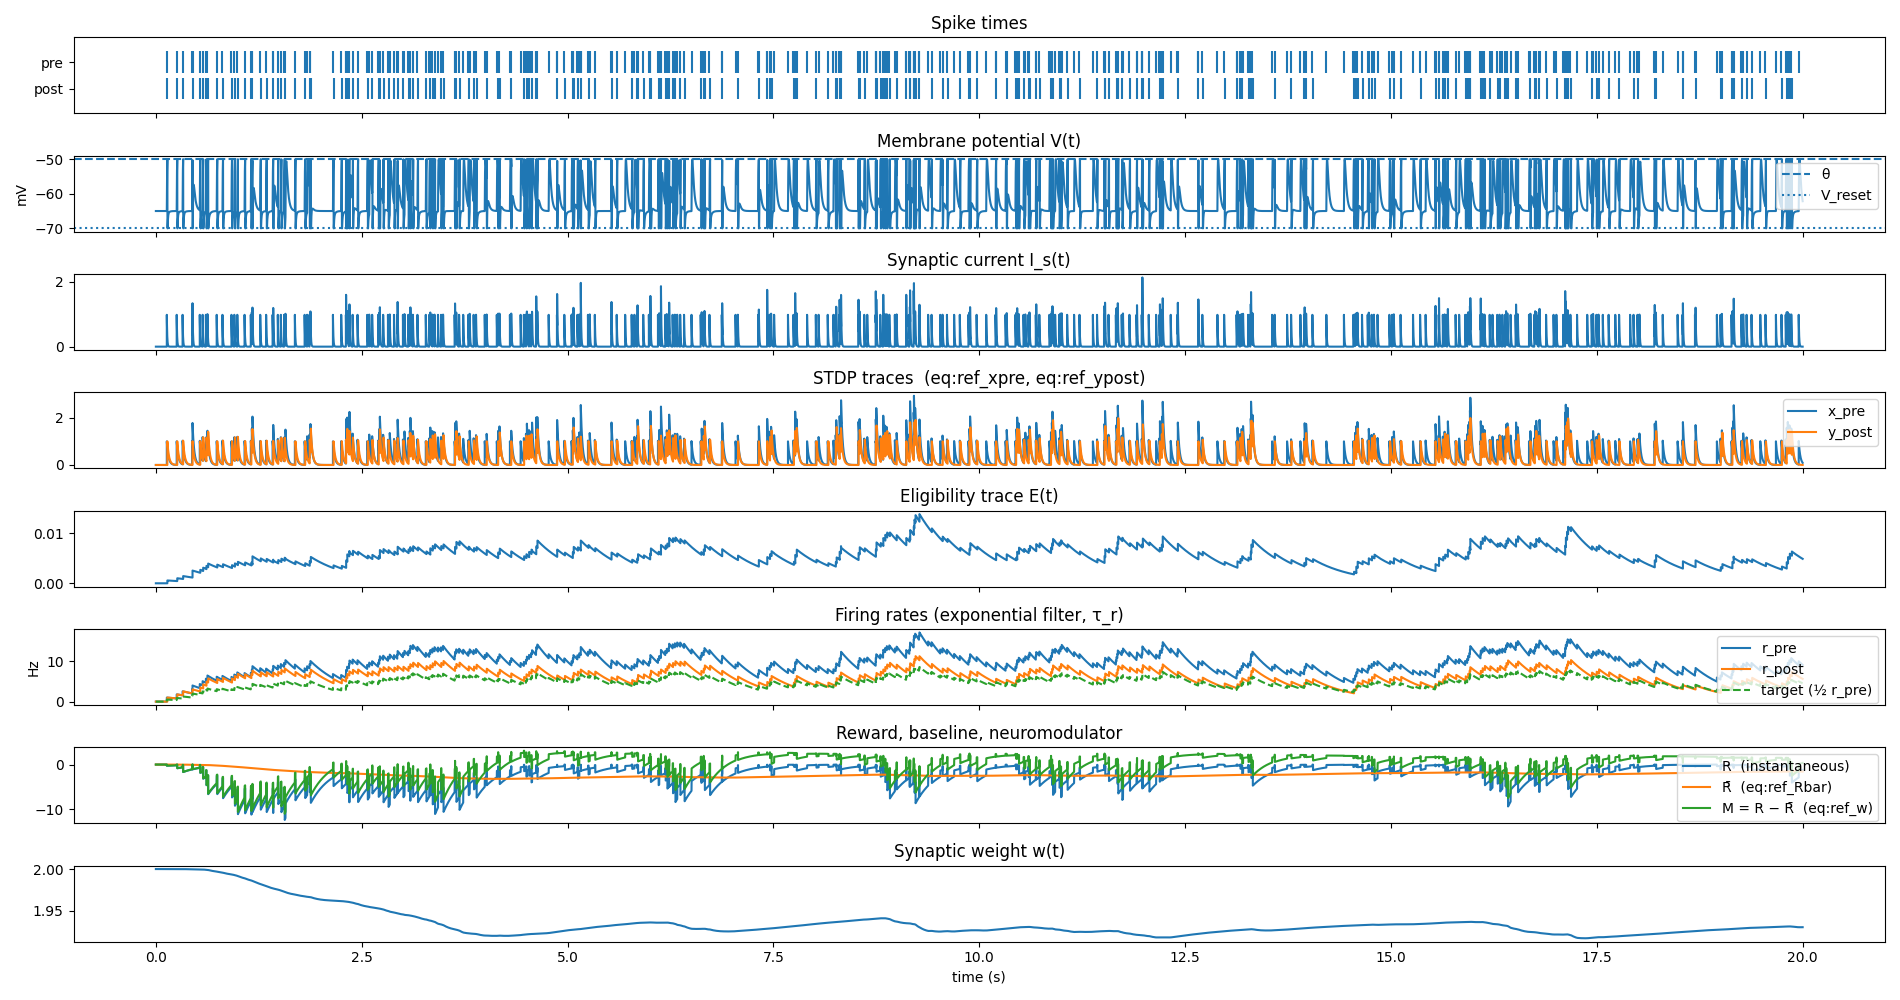
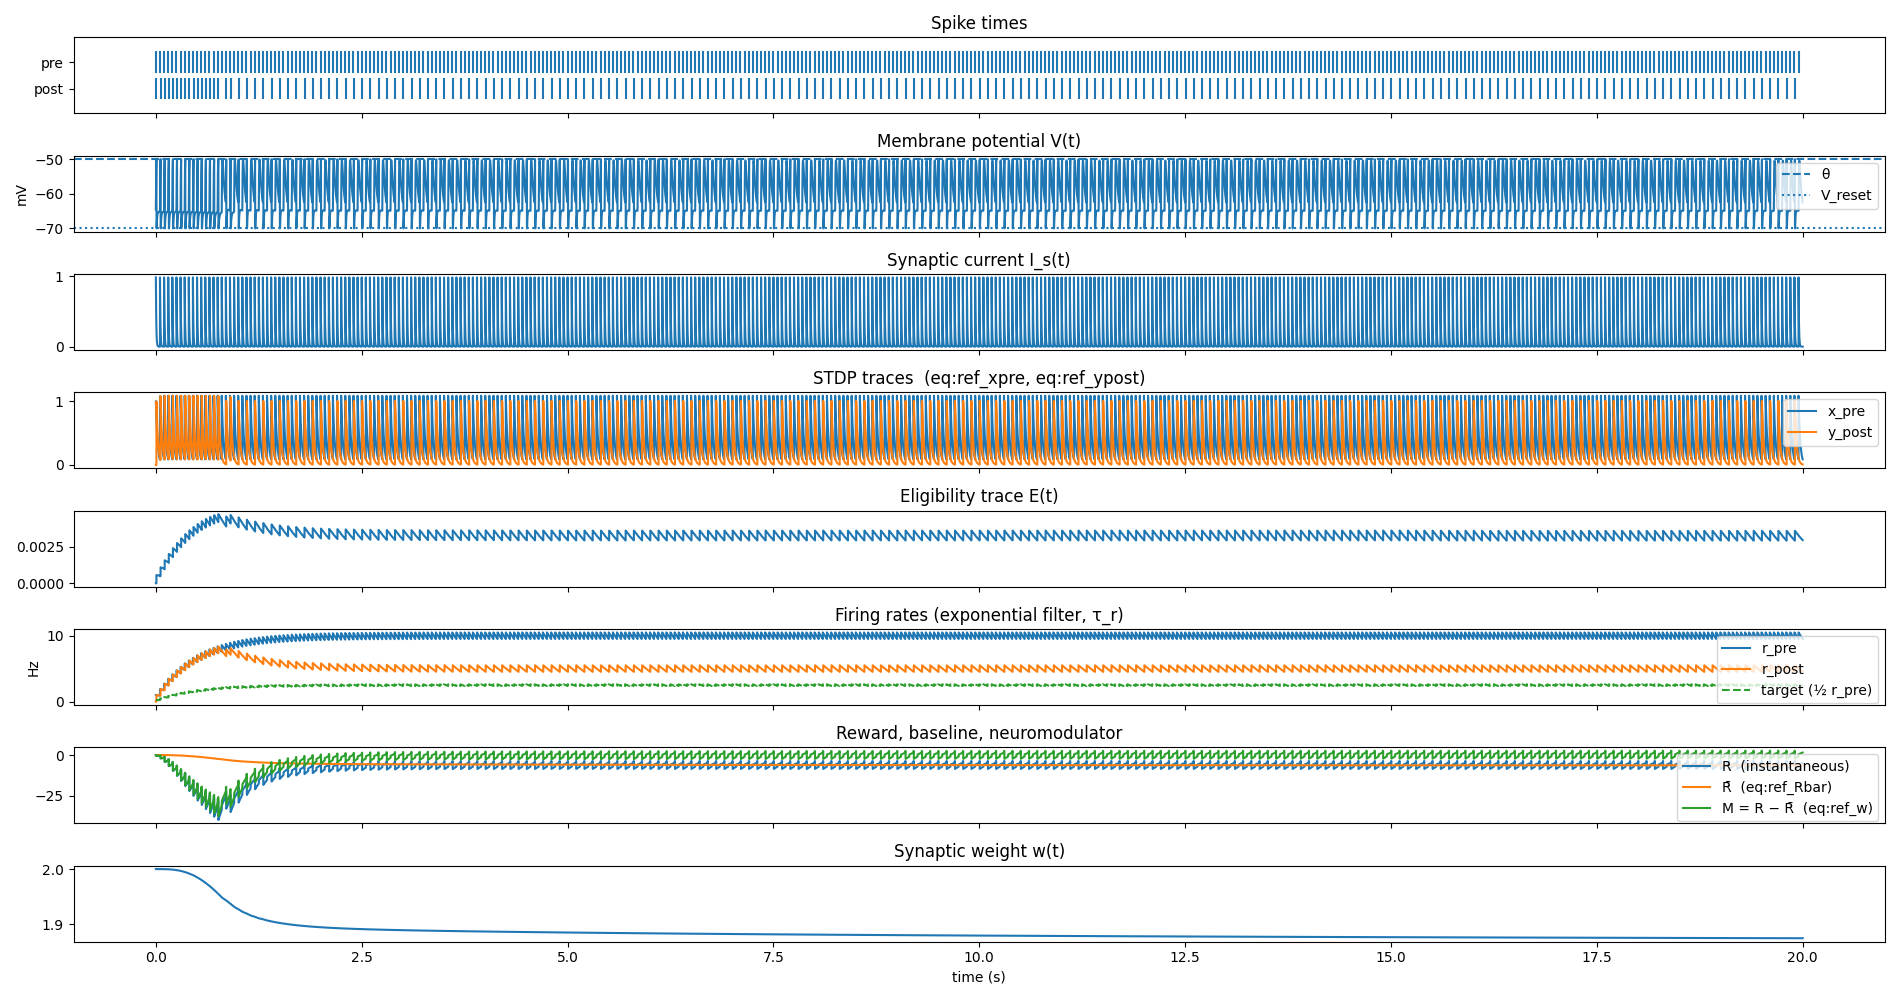
trajectories and periodic pre spikes

diff --git a/model/trajectories.py b/model/trajectories.py
@@ -1,0 +1,141 @@
+from dataclasses import dataclass
+import numpy as np
+import matplotlib.pyplot as plt
+from itertools import combinations
+
+@dataclass
+class Params:
+    T: float = 20.0
+    dt: float = 1e-4
+    seed: int = 1
+    r_pre_rate: float = 20.0
+    tau_m: float = 0.02
+    E_L: float = -65.0
+    V_reset: float = -70.0
+    theta: float = -50.0
+    tau_ref: float = 0.003
+    tau_s: float = 0.005
+    R_m: float = 50.0
+    tau_plus: float = 0.02
+    tau_minus: float = 0.02
+    tau_r: float = 0.5
+    tau_e: float = 0.5
+    tau_Rbar: float = 5.0
+    w0: float = 2.0
+    wmax: float = 10.0
+    eta_plus: float = 1e-4
+    eta_minus: float = 1e-4
+    record_every: float = 1e-3
+
+
+def simulate(p):
+    n = int(p.T / p.dt)
+    period_steps = max(1, round(1.0 / (p.r_pre_rate * p.dt)))
+    V = p.E_L; ref_remaining = 0.0
+    I_s = 0.0; x_pre = 0.0; r_pre = 0.0
+    y_post = 0.0; r_post = 0.0; E = 0.0; R_bar = 0.0; w = p.w0
+
+    rec_step = max(1, int(p.record_every / p.dt))
+    m = n // rec_step + 2
+    keys = ["t", "V", "I_s", "x_pre", "y_post", "E", "r_pre", "r_post", "R_bar", "w"]
+    rec = {k: np.zeros(m) for k in keys}
+    k = 0
+
+    for step in range(n):
+        t = step * p.dt
+        pre_spike = step % period_steps == 0
+        if pre_spike:
+            I_s += 1.0; x_pre += 1.0; r_pre += 1.0
+            E -= p.eta_minus * w * y_post
+        I_s   += p.dt * (-I_s   / p.tau_s)
+        x_pre += p.dt * (-x_pre / p.tau_plus)
+        r_pre += p.dt * (-r_pre / p.tau_r)
+
+        post_spike = False
+        if ref_remaining <= 0.0:
+            V_new = V + (p.dt / p.tau_m) * (-(V - p.E_L) + p.R_m * w * I_s)
+            if V < p.theta and V_new >= p.theta:
+                post_spike = True
+                V = p.V_reset; ref_remaining = p.tau_ref
+            else:
+                V = V_new
+        else:
+            ref_remaining -= p.dt; V = p.V_reset
+
+        if post_spike:
+            y_post += 1.0; r_post += 1.0
+            E += p.eta_plus * (p.wmax - w) * x_pre
+
+        y_post += p.dt * (-y_post / p.tau_minus)
+        r_post += p.dt * (-r_post / p.tau_r)
+        E      += p.dt * (-E / p.tau_e)
+        R       = -(r_post - 0.5 * r_pre) ** 2
+        R_bar  += (p.dt / p.tau_Rbar) * (-R_bar + R)
+        w      += p.dt * (R - R_bar) * E
+        w       = np.clip(w, 0.0, p.wmax)
+
+        if step % rec_step == 0:
+            rec["t"][k] = t; rec["V"][k] = V; rec["I_s"][k] = I_s
+            rec["x_pre"][k] = x_pre; rec["y_post"][k] = y_post
+            rec["E"][k] = E; rec["r_pre"][k] = r_pre
+            rec["r_post"][k] = r_post; rec["R_bar"][k] = R_bar
+            rec["w"][k] = w
+            k += 1
+
+    return {kk: vv[:k] for kk, vv in rec.items()}
+
+
+p = Params()
+rec = simulate(p)
+
+# State variables (exclude time)
+VAR_NAMES = ["V", "I_s", "x_pre", "y_post", "E", "r_pre", "r_post", "R_bar", "w"]
+LABELS = {
+    "V":      r"$V$ (mV)",
+    "I_s":    r"$I_s$",
+    "x_pre":  r"$x_\mathrm{pre}$",
+    "y_post": r"$y_\mathrm{post}$",
+    "E":      r"$E$",
+    "r_pre":  r"$r_\mathrm{pre}$",
+    "r_post": r"$r_\mathrm{post}$",
+    "R_bar":  r"$\bar{R}$",
+    "w":      r"$w$",
+}
+
+pairs = list(combinations(VAR_NAMES, 2))  # C(9,2) = 36
+n_pairs = len(pairs)
+ncols = 6
+nrows = -(-n_pairs // ncols)  # ceiling division
+
+t = rec["t"]
+norm_t = (t - t.min()) / (t.max() - t.min())
+
+fig, axes = plt.subplots(nrows, ncols, figsize=(ncols * 3, nrows * 3))
+axes = axes.flatten()
+
+for idx, (xvar, yvar) in enumerate(pairs):
+    ax = axes[idx]
+    ax.scatter(rec[xvar], rec[yvar], c=norm_t, cmap="viridis", s=1,
+               linewidths=0, rasterized=True)
+    ax.set_xlabel(LABELS[xvar], fontsize=8)
+    ax.set_ylabel(LABELS[yvar], fontsize=8)
+    ax.tick_params(labelsize=6)
+
+# Hide unused subplots
+for idx in range(n_pairs, len(axes)):
+    axes[idx].set_visible(False)
+
+# Single shared colorbar in the last empty cell area
+sm = plt.cm.ScalarMappable(cmap="viridis",
+                            norm=plt.Normalize(vmin=t.min(), vmax=t.max()))
+sm.set_array([])
+# Use the first invisible axis region for colorbar placement
+cbar_ax = fig.add_axes([0.88, 0.02, 0.012, 0.25])
+fig.colorbar(sm, cax=cbar_ax, label="time (s)")
+
+fig.suptitle("Projected trajectories — all pairwise state variables", fontsize=12, y=1.01)
+plt.tight_layout()
+plt.savefig("trajectories.png", dpi=130,
+            bbox_inches="tight")
+plt.show()
+print(f"Plotted {n_pairs} pairs ({nrows}x{ncols} grid)")

diff --git a/model/main.py b/model/main.py
@@ -49,8 +49,8 @@ class Params:
 
 
 def simulate(p: Params):
-    rng = np.random.default_rng(p.seed)
     n = int(p.T / p.dt)
+    period_steps = max(1, round(1.0 / (p.r_pre_rate * p.dt)))
 
     # ------------------------------------------------------------------ #
     # State variables – names and grouping follow analysis.tex Sec. 1–3  #
@@ -92,7 +92,7 @@ def simulate(p: Params):
         # ------------------------------------------------------------------ #
         # Sec. 2 – Pre-synaptic spike event                                  #
         # ------------------------------------------------------------------ #
-        pre_spike = 1 if (rng.random() < p.r_pre_rate * p.dt) else 0
+        pre_spike = 1 if (step % period_steps == 0) else 0
         if pre_spike:
             pre_spike_times.append(t)
             I_s   += 1.0   # eq:ref_pre_Is
@@ -142,7 +142,7 @@ def simulate(p: Params):
         r_post += p.dt * (-r_post / p.tau_r)      # eq:ref_rpost
         E      += p.dt * (-E      / p.tau_e)      # eq:ref_E
 
-        R     = -(r_post - 0.5 * r_pre) ** 2                       # instantaneous reward
+        R     = -(r_post - 0.25 * r_pre) ** 2                       # instantaneous reward
         R_bar += (p.dt / p.tau_Rbar) * (-R_bar + R)                # eq:ref_Rbar
         M     = R - R_bar                                           # neuromodulator: R - R̄
         w    += p.dt * M * E                                        # eq:ref_w
@@ -240,7 +240,7 @@ def plot_all_in_one_figure(rec, p):
     if PANELS["rates"]:
         axs[i].plot(t, rec["r_pre"], label="r_pre")
         axs[i].plot(t, rec["r_post"], label="r_post")
-        axs[i].plot(t, 0.5 * rec["r_pre"], linestyle="--", label="target (½ r_pre)")
+        axs[i].plot(t, 0.25 * rec["r_pre"], linestyle="--", label="target (½ r_pre)")
         axs[i].legend(loc="upper right")
         axs[i].set_ylabel("Hz")
         axs[i].set_title("Firing rates (exponential filter, τ_r)")
@@ -303,6 +303,12 @@ if __name__ == "__main__":
         wmax=10.0,
         eta_plus=1e-4,
         eta_minus=1e-4,
+        # TODO: add all initial conditions
+        # oom handling
+        # play with initial conditions and parameters to see different regimes of behavior
+        # how sensitive is the model to parameters?
+        # how to measure convergence: spectrum analysis? transient analysis?
+        # try different target regimes, nonlinear?
     )
 
     rec = simulate(p)
